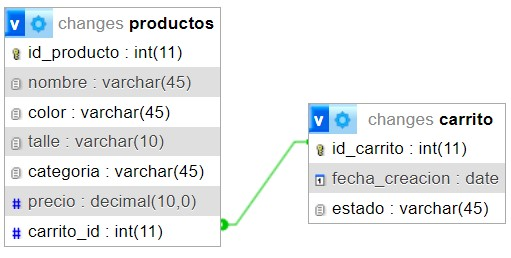
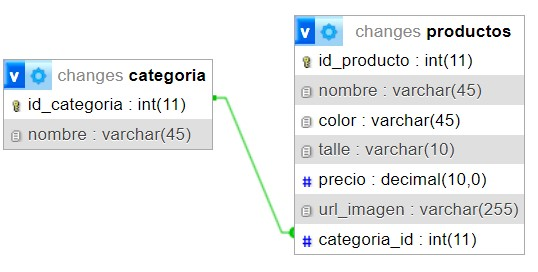
Proyecto modificado

diff --git a/README.md b/README.md
@@ -1,5 +1,6 @@
 # Changes-WEB2-TPE
 
-Tienda de ropa Changes 
-Base de datos desarrollada para tienda de ropa masculina. Donde ser mostrara el catalogo de productos con funcionalidad de filtrado y creación de carrito para su compra La relacion entre las tablas es la siguiente:
-Carrio <--> Productos: Donde se muestra que un carrito puede tener varios productos, y que cada producto esta asociado a un solo carrito
+Tienda de ropa Changes
+Base de datos desarrollada para tienda de ropa masculina. Donde ser mostrara el catalogo de productos con funcionalidad de filtrado
+La relacion entre las tablas es la siguiente:
+Categorias <--> Productos: Donde se muestra que una categoria puede tener varios productos, y que cada producto pertenece a una sola categoria
